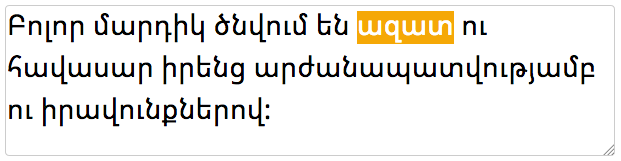
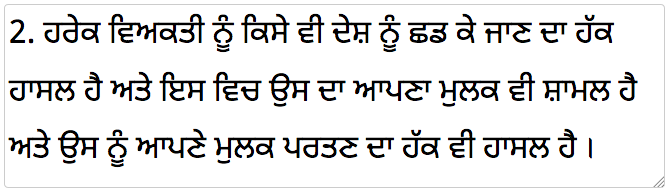
gurmukhi help, replaced stand-in help with real page

Changed region(s): [[0.0, 0.0, 1.0, 0.9938]]

diff --git a/gurmukhi/help/index.html b/gurmukhi/help/index.html
@@ -2,7 +2,7 @@
 <html lang="en-gb">
 <head>
 <meta charset="UTF-8" />
-<title>Help for character picker 20</title>
+<title>Help for Gurmukhi character picker 20</title>
 <link rel="stylesheet" href="../../../shared/style/docs.css" type="text/css" />
 <link rel="stylesheet" type="text/css" href="../../shared20/style.css" />
 <link rel="stylesheet" type="text/css" href="../localstyle.css" />
@@ -25,23 +25,26 @@
   <div id="toc"><!-- placeholder --></div>
   <div class="noprint">
         <h2 class="notoc"><a id="links" tabindex="5">Related links</a></h2>
+        <p><a href="/scripts/links?script=gurmukhi">Gurmukhi script links</a></p>
         <p><a href="/pickers/">List of pickers </a></p>
   </div>
 </aside>     
 
-<p id="status">Updated  <!-- #BeginDate format:En2 -->05-Aug-2017<!-- #EndDate --> • tags <a href="http://rishida.net/blog/?tag=apps" title="Show all blog posts tagged with 'apps'">apps</a>, <a href="http://rishida.net/blog/?tag=pickers" title="Show all blog posts tagged with 'pickers'">pickers</a>, <a href="http://rishida.net/blog/?tag=gurmukhi" title="Show all blog posts tagged with 'gurmukhi'">gurmukhi</a></p>
+<p id="status">Updated  <!-- #BeginDate format:En2 -->08-Aug-2017<!-- #EndDate --> • tags <a href="http://rishida.net/blog/?tag=apps" title="Show all blog posts tagged with 'apps'">apps</a>, <a href="http://rishida.net/blog/?tag=pickers" title="Show all blog posts tagged with 'pickers'">pickers</a>, <a href="http://rishida.net/blog/?tag=gurmukhi" title="Show all blog posts tagged with 'gurmukhi'">gurmukhi</a></p>
 
-<p>This Unicode character picker allows you to produce or analyse runs of  text. Character pickers are especially useful for people who don't know a script well, as characters are displayed in ways that aid identification.</p>
-<p><strong style="color: brown;">This page gives only generic help on pickers, while I find the time to develop a dedicated page. It may not cover all features in the picker, and  uses Armenian examples.</strong></p>
+
+<p>This Unicode character picker allows you to produce or analyse runs of Gurmukhi text. Character pickers are especially useful for people who don't know a script well, as characters are displayed in ways that aid identification.</p>
 <p>If something is broken or missing <a target="_blank" style="font-size:110%;" href="https://github.com/r12a/pickers/issues/new?title=[gurmukhi%20picker]%20%20ADD%20TITLE%20HERE">raise an issue</a>. For version information see <a  target="_blank" style="font-size:110%;" href="https://github.com/r12a/pickers/commits/gh-pages/gurmukhi">the Github commit list</a>.</p>
 
 
 <section id="basics">
   <h2 href="#basics">Basic use</h2>
 <p>To produce characters in the text area, click on character shapes, or use your keyboard for Latin characters, delete, etc. Then cut &amp; paste the result to your document, or use the controls to get further information about the characters. You must have JavaScript enabled. </p>
+<p>The controls just above the text area allow you to interact with the text in various ways. They nearly all work on highlighted text within the text area, or if there is no highlight, on all the text. Controls near the bottom of the picker allow you to change font, font size, line-height, text direction, etc.</p>
 <p><b class="leadin">Sample text</b> If you want to add some sample text to the text area, click on the <img src="../../images/sample.png" alt="plus sign"/> icon.</p>
+
 <p><b class="leadin">Fonts</b>
-To properly display the text you will need to choose a font that is loaded on your system or device, or use the web font downloaded with the page. The font list indicates which fonts are standard for Mac (Snow Leopard/Lion) and Windows7. See more information about <a href="/scripts/fontlist/#gurmukhi" target="_blank">standard OS fonts in Mac and Windows</a>.</p>
+  To properly display the text you will need to choose a font that is loaded on your system or device, or use the web font downloaded with the page (Noto Sans Gurmukhi). The font list contains fonts that can be found on the Mac  and Windows. See more information about <a href="/scripts/fontlist/#gurmukhi" target="_blank">standard OS fonts in Mac and Windows</a>.</p>
 
 <p><b class="leadin">Mobile devices</b>
 When working on an iPad or similar device, you should turn off<code class="kw" translate="no"> Autofocus</code> (just below the text area). This prevents the keyboard popping up after you input every character.  You may also need to select a character twice to add it to the output field.</p>
@@ -49,27 +52,24 @@ When working on an iPad or similar device, you should turn off<code class="kw" t
 
 <section id="about">
 <h2 href="#about">About the chart</h2>
-      <p>Includes characters in the Unicode <a href="/uniview/?block=gurmukhi" target="_blank">Gurmukhi</a> block.     </p>
+      <p>Includes characters in the Unicode <a href="/uniview/?block=gurmukhi" target="_blank">Gurmukhi</a> block, plus U+262C ADI SHAKTI.     </p>
       <p>All text is output in Unicode normalisation form NFC by default.  You can change to NFD or no normalisation by clicking on the buttons in the yellow area. Note that normalization only takes place when you click on a character - text pasted into the box won't be normalised until you click on another character above, or click on a button in the yellow area.</p>
 </section>
 
 
 
 <section id="help">
-<h2 href="#help">Interactive help</h2>
-
-<p><strong>Select the thing you want help with:</strong></p>
-
+<h2 href="#help">Select the thing you want help with</h2>
 <map name="helpSelector">
-  <area shape="rect" coords="-6,-62,641,33" href="#top_controls" />
-  <area shape="rect" coords="0,33,646,181" href="#text_area" />
-  <area shape="rect" coords="2,182,646,237" href="#secondary_output" />
-  <area shape="rect" coords="0,244,16,362" href="#input_aids" />
-  <area shape="rect" coords="23,241,375,262" href="#character_names" />
-  <area shape="rect" coords="535,236,648,259" href="#autofocus" />
-  <area shape="rect" coords="20,261,601,517" href="#buttons" />
-  <area shape="rect" coords="10,519,636,572" href="#yellow_controls" />
-  <area shape="rect" coords="12,572,616,634" href="#more_controls" />
+  <area shape="rect" coords="13,69,676,107" href="#top_controls" />
+  <area shape="rect" coords="13,109,680,304" href="#text_area" />
+  <area shape="rect" coords="15,309,671,378" href="#secondary_output" />
+  <area shape="rect" coords="-3,386,19,505" href="#input_aids" />
+  <area shape="rect" coords="21,389,373,410" href="#character_names" />
+  <area shape="rect" coords="562,385,675,408" href="#autofocus" />
+  <area shape="rect" coords="57,412,649,654" href="#buttons" />
+  <area shape="rect" coords="11,654,669,709" href="#yellow_controls" />
+  <area shape="rect" coords="12,707,616,769" href="#more_controls" />
 </map>
 <p><img usemap="#helpSelector" alt="Help selector." src="images/selector.png"/></p>
 
@@ -80,16 +80,14 @@ When working on an iPad or similar device, you should turn off<code class="kw" t
   <h3 href="#text_area">Text area</h3>
   <p><img src="images/text_area.png" alt=""/></p>
   <p>This is where you see characters appearing as you select them from the panels lower down or where you paste text into the picker. Once you have some text here, you can perform various operations on it, or simply copy it to the clipboard for use elsewhere. </p>
-  <p>The controls just above the text area allow you to interactive with the text in various ways. They mostly work on highlighted text within the text area, or if there is no highlight they work on all the text. Controls near the bottom of the picker allow you to change font, font size, line-height, text direction, etc.</p>
 </section>
-
 
 
 <section id="buttons">
   <h3 href="#buttons">Selection area</h3>
   <p><img src="images/selection_area.png" alt=""/></p>
   <p>Click on characters or buttons in this area to add them to the  text area above.</p>
-  <p>Characters are arranged based on the use of the script in order to speed up picking.     Ligatures are in a panel to the left. In the centre, consonants are arranged in alphabetical order, with punctuation and marks below. Vowels are on the right.</p>
+  <p>Characters are arranged based on the use of the script in order to speed up picking. Independent vowels are to the left. To their right, consonants are in a traditional Indian articulatory arrangement, and combining characters that need to come before a vowel are found at the bottom of the consonant table. (The virama is bottom left.) Vowels signs are next, aligned with the independent vowels, and then combining characters that are input after the vowel. To the right are digits in keypad order and some symbols. </p>
 </section>
 
 
@@ -98,23 +96,23 @@ When working on an iPad or similar device, you should turn off<code class="kw" t
   <h3 href="#top_controls">Controls above the text area</h3>
       <p><img src="images/controls_above.png" alt=""/></p>
       <p>Controls above the input box allow you to run various operations on the text in the box. <strong>Most of them work on what you have selected</strong> within the box, or the whole box if nothing is selected.</p>
-      <p><strong style="color:brown;">There may be additional controls in the Gurmukhi picker. They will be covered once this page is updated.</strong></p>
+      
       <p><b class="leadin">Copy, select, delete, etc. (<img src="images/copy_etc.png" style="vertical-align:middle;" alt=""/>).</b> The icons on the left above the input box allow you (listing them from left to right) to copy the text to the clipboard, select the text,  delete it, generate a URL to share with others that will reproduce for them what you see in the text box, add some sample text to the text area, and open this help file.</p>
       <p><b class="leadin">Show codepoints.</b> Produces a list of the Unicode code points in the input box. You can usually follow a link from a code point item to more detailed information about that character.</p>
       <p><b class="leadin">Convert to escapes.</b> Opens a new window for the converter app, which shows various different ways of representing the text in the input box using escapes.</p>
-    <p><b class="leadin">Make example.</b> This may be useful to speed up the creation of examples. You can create an example with four parts, delimited by /, in the following order: [1] Gurmukhi text, [2] IPA transcription, [3] other transcription, [4] meaning. You don't need to add all four elements, but if you want to skip one in the middle of the sequence, use //.</p>
+    <p><b class="leadin">Make example.</b> This may be useful to speed up the creation of examples. You can create an example with four parts, delimited by /, in the following order: [1] Gurmukhi text, [2] transliteration, [3] IPA transcription, [4] meaning. You don't need to add all four elements, but if you want to skip one in the middle of the sequence, use nothing between the slashes.</p>
        <p>For example, the following:</p>
-      <p> այբուբեն/ɑjbubɛn/aybuben/alphabet</p>
+      <p><span lang="pa">ਗੁਰਮੁਖੀ</span>//ɡʊɾmʊkʰi/Gurmukhi</p>
       <p>will produce:</p>
-      <p style="text-align:left; text-justify:auto;"><code> &lt;span class=&quot;ex&quot; lang=&quot;hy&quot;&gt;այբուբեն&lt;/span&gt; &lt;span class=&quot;ipa&quot;&gt;ɑjbubɛn&lt;/span&gt; &lt;span class=&quot;trans&quot;&gt;aybuben&lt;/span&gt; &lt;span class=&quot;meaning&quot;&gt;alphabet&lt;/span&gt;</code></p>
-      <p>To get just the Gurmukhi and the second transcription you would use:</p>
-       <p><span lang="ar" dir="rtl"></span>այբուբեն//aybuben</p>
+      <p style="text-align:left; text-justify:auto;"><code>&lt;span class=&quot;charExample&quot;&gt;&lt;span class=&quot;ex&quot; lang=&quot;pa&quot;&gt;<span lang="pa">ਗੁਰਮੁਖੀ</span>&lt;/span&gt; &lt;span class=&quot;ipa&quot;&gt;ɡʊɾmʊkʰi&lt;/span&gt; &lt;span class=&quot;meaning&quot;&gt;Gurmukhi&lt;/span&gt;&lt;/span&gt;</code></p>
+      <p>To get just the gurmukhi and the meaning you would use:</p>
+       <p><span lang="pa">ਗੁਰਮੁਖੀ</span>///Gurmukhi</p>
        
       
       <p><b class="leadin">Character markup.</b> This may be useful to speed up the creation of markup for a specific character or set of characters. Select one or more characters in the text area, then click this button.  It will return something like the following for each of the characters:</p>
-      <p style="text-align:left; text-justify:auto;"><code>&lt;span class=&quot;codepoint&quot;&gt;&lt;span lang=&quot;hy&quot;&gt;&amp;#x0576;&lt;/span&gt; &lt;span class=&quot;uname&quot;&gt;U+0576 ARMENIAN SMALL LETTER NOW&lt;/span&gt;&lt;/span&gt;</code></p>
+      <p style="text-align:left; text-justify:auto;"><code>&lt;span class=&quot;codepoint&quot;&gt;&lt;span lang=&quot;pa&quot;&gt;&amp;#x0A74;&lt;/span&gt; [&lt;span class=&quot;uname&quot;&gt;U+0A74 GURMUKHI EK ONKAR&lt;/span&gt;]&lt;/span&gt;</code></p>
       <p>When you add it to your document, it will look like this.</p>
-      <p><span class="codepoint"><span lang="hy">&#x0576;</span> <span class="uname">U+0576 ARMENIAN SMALL LETTER NOW</span></span></p>
+      <p><span class="codepoint"><span lang="pa">&#x0A74;</span> [<span class="uname">U+0A74 GURMUKHI EK ONKAR</span>]</span></p>
 </section>
 
 <section>
@@ -141,14 +139,10 @@ When working on an iPad or similar device, you should turn off<code class="kw" t
   <h3 href="#input_aids">Input aids</h3>
     <p><img src="images/input_aids.png" style="float:left; margin-right:1em; " alt=""/></p>
     <p>The vertical grey bar to the left allows you to turn on/off a number of panels that can help create the text you want.</p>
-    <p><strong style="color:brown;">There may be more or fewer controls in the Gurmukhi picker. They will be covered once this page is updated.</strong></p>
     <p><b class="leadin">Default.</b> Turns off all input aids and closes all panels.</p>
       <p><b class="leadin">Hinting.</b> Changes the selection area so that, when you mouse over a character, characters that are similar in appearance, and may be easily confused, are automatically highlighted. This can be particularly useful for people who are not familiar with the script, to avoid confusing similar characters, or to find the right character when two or more look similar.    </p>
-    <p><b class="leadin">Shape lookup.</b> This adds a row of orange pictures that represent basic shapes associated with the Gurmukhi characters. When you click on a picture, characters that incorporate that shape are highlighted. This is particularly helpful for those who don't know the script at all and want to pick characters based on their shape, or for those times when you just can't find the character you want and need a hint.</p>
-    <p> Each orange key below the table represents a significant part of the shape of two or more characters; when you click on the keys, characters and combinations of characters that incorporate that shape are highlighted above. Click on these characters to add them to the output. The shapes grouped under 'Other' are a mixed bag of characters that didn't fit elsewhere.</p>
-    <p><b class="leadin">Latin characters.</b> Displays a panel of lowercase Latin characters you are likely to need for  transcription.</p>
+    <p><b class="leadin">Latin characters.</b> Displays a panel of lowercase Latin characters you are likely to need for  transcription. Click on them to add them to the text area.</p>
 </section>
-
 
 
 <section id="yellow_controls">
@@ -169,7 +163,9 @@ When working on an iPad or similar device, you should turn off<code class="kw" t
 </section>
 </section>
 
-<div class="smallprint">Copyright <a href="mailto:r12a@w3.org">r12a@w3.org</a>. Licence <a rel="license" href="http://creativecommons.org/licenses/by/4.0/">CC-By</a>.</div>
+<div class="smallprint">Latest commit <a href="https://github.com/r12a/pickers/commits/gh-pages/gurmukhi/help"><!-- #BeginDate format:En2 -->08-Aug-2017<!-- #EndDate --></a>. 
+Make a <a href="https://github.com/r12a/pickers/issues/new?title=[gurmukhi%20help]%20%20ADD%20TITLE%20HERE">comment</a>.
+Licence <a rel="license" href="http://creativecommons.org/licenses/by/4.0/">CC-By</a> © <a href="mailto:r12a@w3.org">r12a</a>.</div>
 </body>
 <script type="text/javascript">
 createtoc(3);
